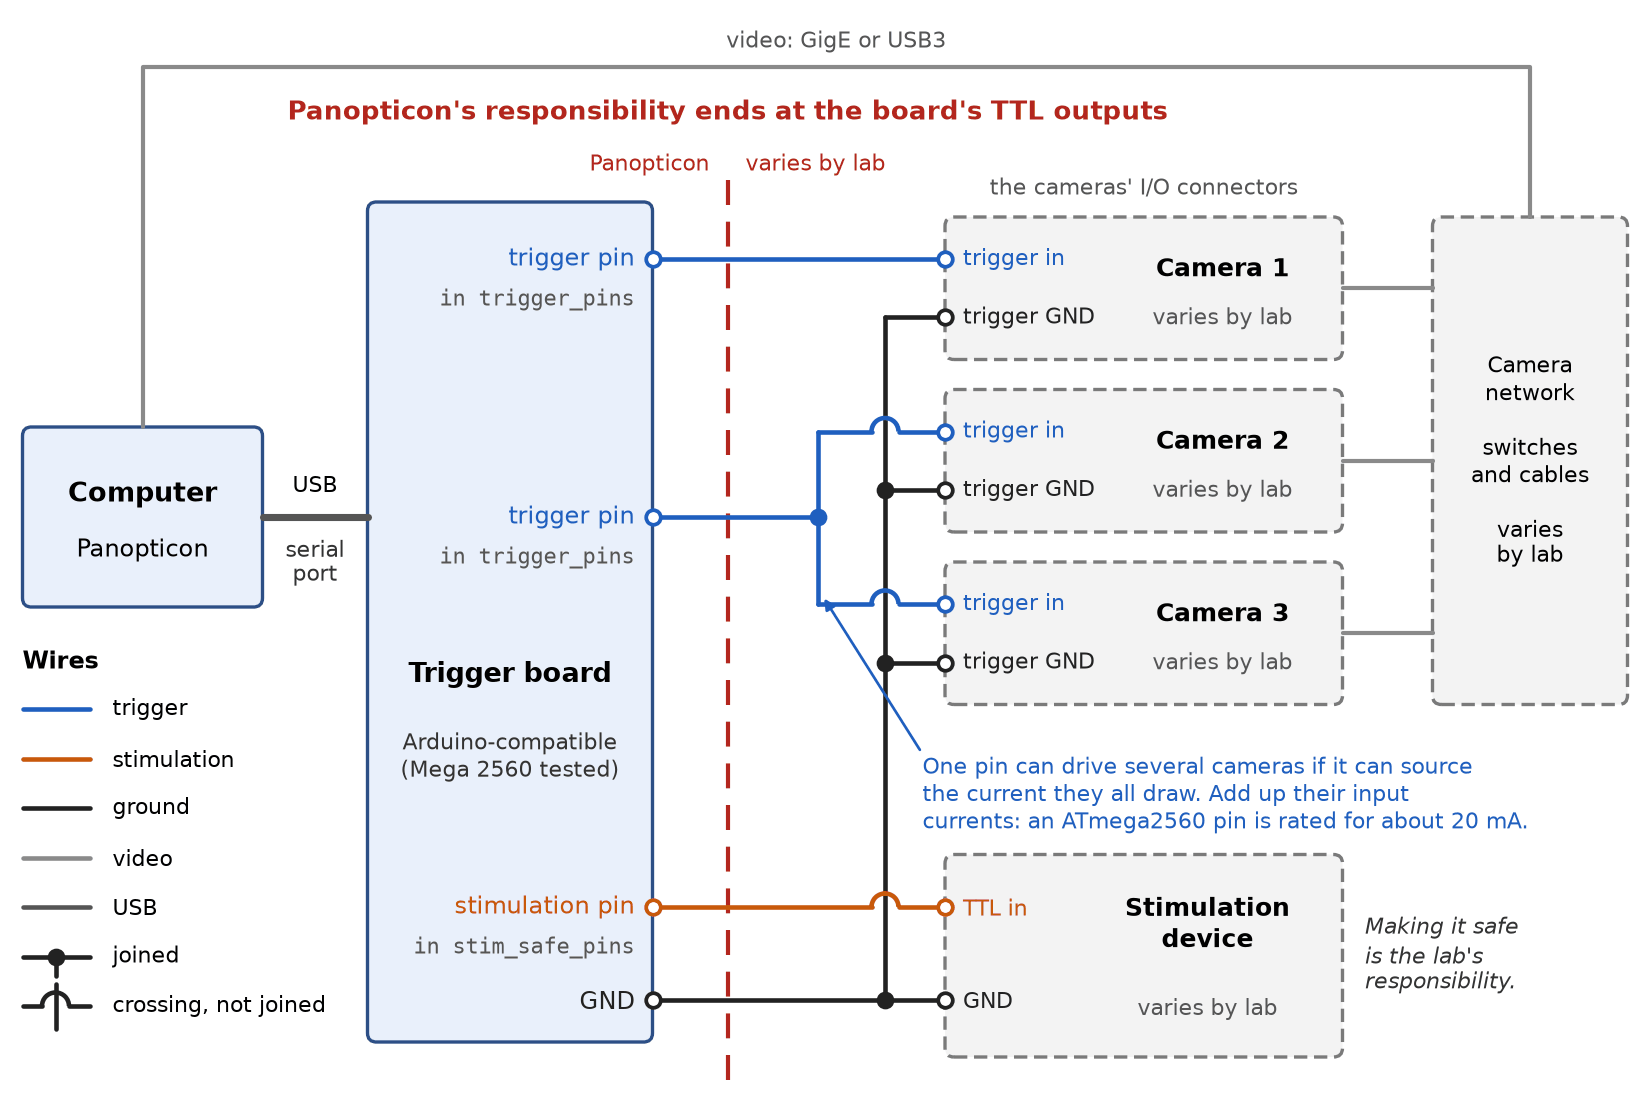
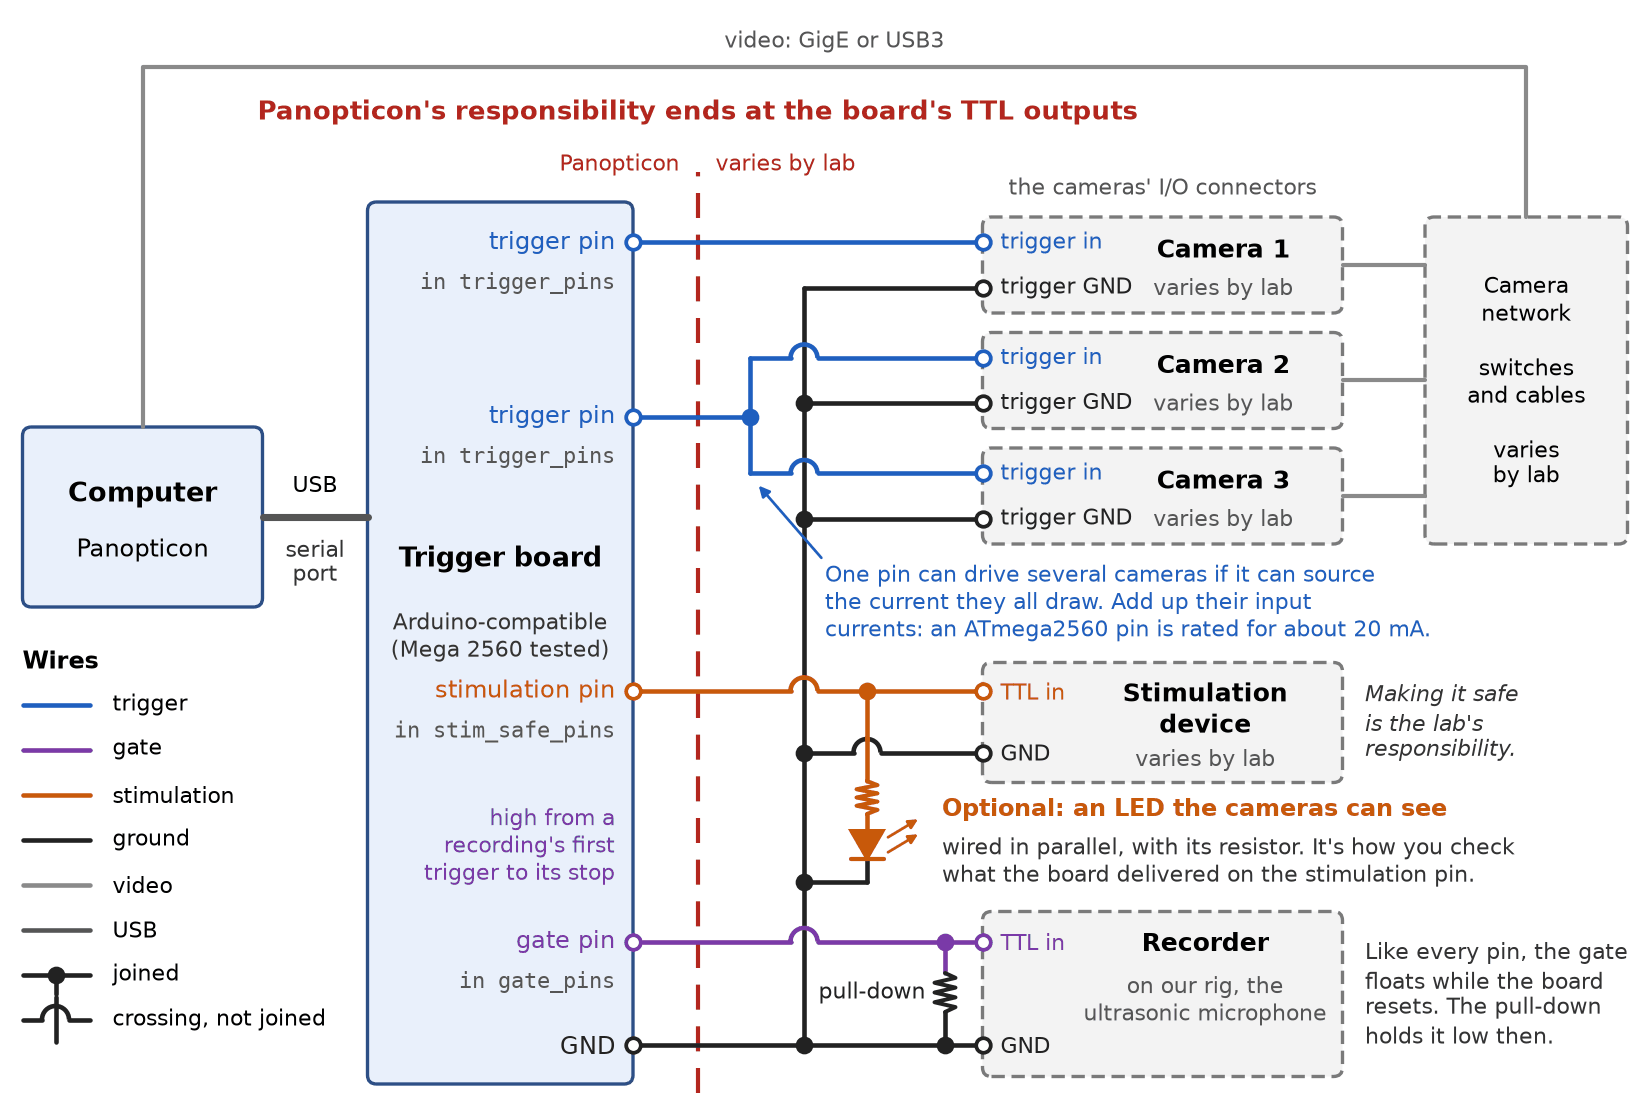
Docs: wiring schematic with the gate pin and an LED, and a closed-loop flow
The trigger board's wiring figure (docs/images/trigger_wiring.png, under
INSTALLATION.md's "The trigger board") gains two optional outputs, in its
own style and at its own size (1650 x 1102):

- a gate pin (gate_pins), held high from a recording's first trigger to its
  stop, wired to a recorder, with a pull-down to GND at the recorder's end
  that holds the line low while the board resets and every pin floats. On
  our rig it is the ultrasonic microphone's Avisoft UltraSoundGate (DIN);
- an LED on the stimulation pin, in parallel with the device, that the
  cameras can see: the way to check what the board delivered.

The boundary line ("Panopticon's responsibility ends at the board's TTL
outputs") and the legend stay, with a gate entry added. The alt text, the
paragraph under the figure and the set-up steps for the ground and
gate_pins now mention both.

A new figure, docs/images/closed_loop_flow.png, opens CLOSED_LOOP.md: the
cameras' frames reach the grab threads and are encoded as always, while a
tap copies each zone camera's frame rate_hz times a second (10 by default)
to the tracker process (its own Python, ONNX Runtime on the GPU, the SLEAP
centroid model). The zone logic (min_confidence, enter_updates,
leave_updates, lost_s) sends one byte per zone over USB serial during a
recording, 'A' in and 'a' out, resent once 50 ms pass without one. The
sketch keeps a bit and a 250 ms watchdog per zone and pulses a zone block's
[…]

diff --git a/docs/INSTALLATION.md b/docs/INSTALLATION.md
@@ -639,17 +639,22 @@ The Arduino Mega 2560 is the board we test on, and the default. The sketch is pl
 
 For such a board, set [`board_fqbn`](CONFIGURATION.md#board_fqbn) to its name in `arduino-cli` (`arduino-cli board listall` lists the names) and [`board_max_pin`](CONFIGURATION.md#board_max_pin) to its highest digital pin.[^tools]
 
-![The trigger board wired to the computer, three cameras and a stimulation device](images/trigger_wiring.png)
+![The trigger board wired to the computer, three cameras, a stimulation device with an optional LED in parallel on its pin, and a recorder on a gate pin with a pull-down resistor to ground](images/trigger_wiring.png)
 
-Everything to the right of the dashed line varies by lab: the cameras' I/O connectors, the camera network and the stimulation device. And don't be surprised when the log calls the board `teensy` and tags its lines `[teensy]`, whatever board it is.
+Everything to the right of the dashed line varies by lab: the cameras' I/O connectors, the camera network, the stimulation device and the recorder. Two parts of the diagram are optional:
+
+- **An LED on the stimulation pin**, wired in parallel with the stimulation device where the cameras can see it. It's how you check what the board delivered, and we recommend one before you stimulate an animal ([Check the loop with a light](CLOSED_LOOP.md#4-check-the-loop-with-a-light)).
+- **A gate pin**, listed in `gate_pins`, for a device that should record along with the cameras ([Devices that follow the recording](WORKFLOW.md#devices-that-follow-the-recording)). The board holds it high from a recording's first trigger to its stop, and low the rest of the time. On our rig it runs to the DIN input of the ultrasonic microphone's Avisoft UltraSoundGate. Like every pin, it floats while the board resets, and a pull-down resistor from the line to GND, at the device's end, holds it low then ([When the board resets](WORKFLOW.md#when-the-board-resets)).
+
+And don't be surprised when the log calls the board `teensy` and tags its lines `[teensy]`, whatever board it is.
 
 [^tools]: When an upload runs past its time limit, Panopticon waits for the board's flashing tool to finish before it tells you what to do. It knows the tools of the common cores: `avrdude`, `bossac`, `esptool`, `picotool`, the Teensy loader, `dfu-util`, `STM32_Programmer_CLI` and `openocd`. With any other tool it can't tell whether a write is still running, and its message says so.
 
 #### Set up the board
 
 1. **Make the pin list**, if the rig came without one. The pin numbers are printed beside the board's sockets, and the sockets marked GND are ground. Follow each wire from its socket to where it ends, and write the socket's number beside the camera's serial number or the device's name. If the wires are bundled or covered, ask whoever wired the rig, and please don't unplug wires to find out.
-2. **Check the ground.** At least one wire should leave a GND socket and join the cameras' trigger grounds, and the stimulation device's ground too, as in the diagram. If you can't trace it, ask them too.
-3. **Fill in the pins.** Every pin that drives a camera goes in `trigger_pins`, and every pin that drives a stimulation device goes in `stim_safe_pins`. Where cameras share a pin, you'll have fewer pins than cameras, and that's fine.
+2. **Check the ground.** At least one wire should leave a GND socket and join the cameras' trigger grounds, and the grounds of the stimulation device and any recorder too, as in the diagram. If you can't trace it, ask them too.
+3. **Fill in the pins.** Every pin that drives a camera goes in `trigger_pins`, and every pin that drives a stimulation device goes in `stim_safe_pins`. A pin wired to a recorder goes in `gate_pins`. Where cameras share a pin, you'll have fewer pins than cameras, and that's fine.
 4. **Install `arduino-cli`**, on its own or with the Arduino IDE from <https://www.arduino.cc/en/software>, which includes it.
 5. **Install the board support**, once. For a Mega:
 

diff --git a/docs/CLOSED_LOOP.md b/docs/CLOSED_LOOP.md
@@ -6,6 +6,10 @@ A closed loop makes a stimulation block pulse only while an animal is in a zone 
 
 This page is for setting it up on your rig, and above all for bringing your own SLEAP model. [Closed-loop stimulation](WORKFLOW.md#closed-loop-stimulation) in the workflow walks through a session once it's set up.
 
+Here's the whole path, from a camera's frame to a pulse on the stimulation pin. The recording goes on as always along the top row, because the tracker only reads copies of the frames:
+
+![How a zone turns a pulse on: a copy of each zone camera's frame goes to the tracker process, Panopticon's zone logic decides whether an animal is in each zone, and one byte per zone over USB serial tells the trigger board's sketch when to pulse the zone block's stimulation pin](images/closed_loop_flow.png)
+
 ---
 
 ## What's new
